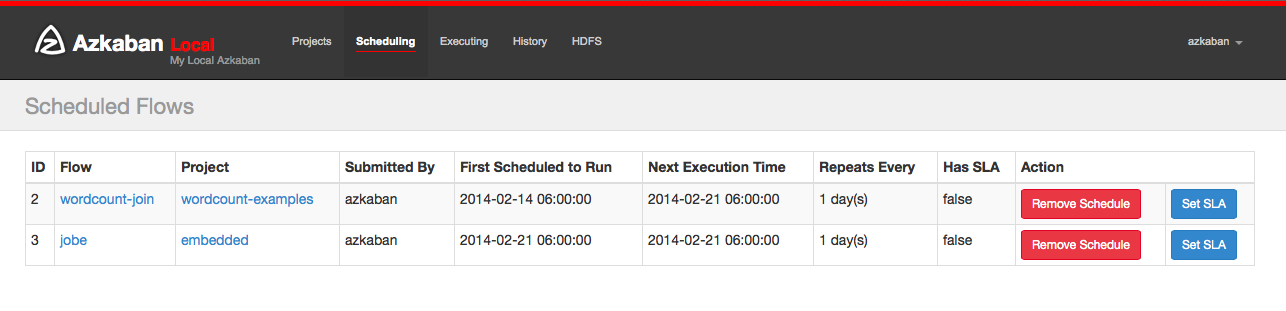
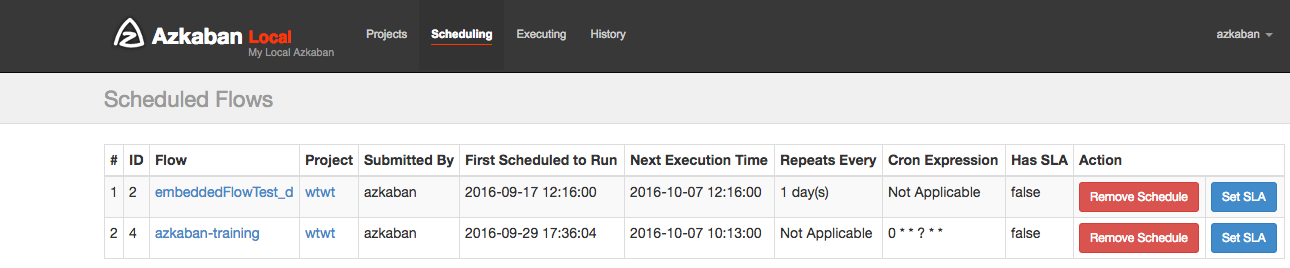
update Scheduling Doc

diff --git a/_includes/docs/latest/schedule-flow.html b/_includes/docs/latest/schedule-flow.html
@@ -4,15 +4,15 @@
 
 <div class="row">
   <div class="col-md-6 col-md-offset-3">
-    <a href="./images/scheduleflowoptions.png" data-lightbox="schedule-flow" title="Schedule flow">
-      <img class="img-thumbnail" title="Schedule Flow" src="./images/scheduleflowoptions.png" ALT="Schedule Flow" width="450" />
+    <a href="./images/flexible-scheduling.png" data-lightbox="schedule-flow" title="Schedule flow">
+      <img class="img-thumbnail" title="Schedule Flow" src="./images/flexible-scheduling.png" ALT="Schedule Flow" width="450" />
     </a>
   </div>
 </div>
 
 <p>Any flow options set will be preserved for the scheduled flow. For instance, if jobs are disabled, then the scheduled flow's jobs will also be disabled.<p>
 
-<p>Select the scheduled time and date. Recurrence allows jobs to repeated every <em>n</em> months, weeks, days, hours, minutes, seconds. Scheduling an already scheduled flow will overwrite the previous schedule.</p>
+<p>With new flexible scheduling feature in Azkaban 3.3, User are able to define a cron job following <a href="http://www.quartz-scheduler.org/documentation/quartz-2.x/tutorials/crontrigger.html">Quartz syntax</a>. One important change different from Quartz or cron is that Azkaban functions at the minute granularity at most. Therefore, second field in UI is labeled as a static "0".</p>
 
 <p>After scheduling, it should appear on the schedule page, where you can remove the scheduled job or set the SLA options.</p>
 
